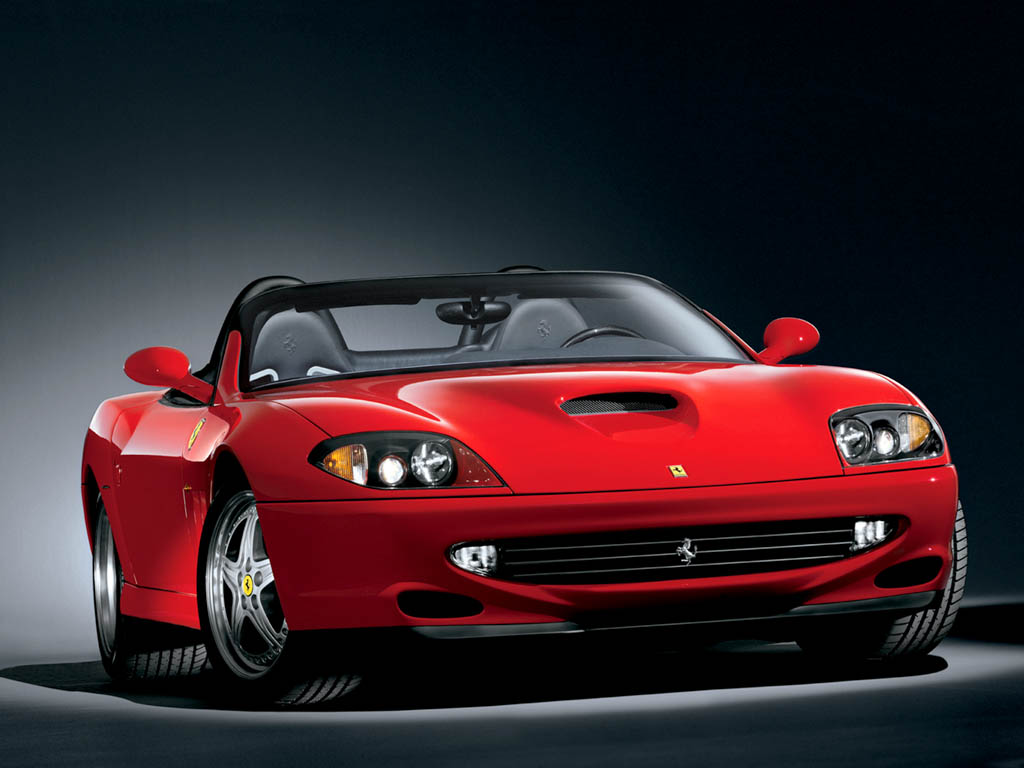
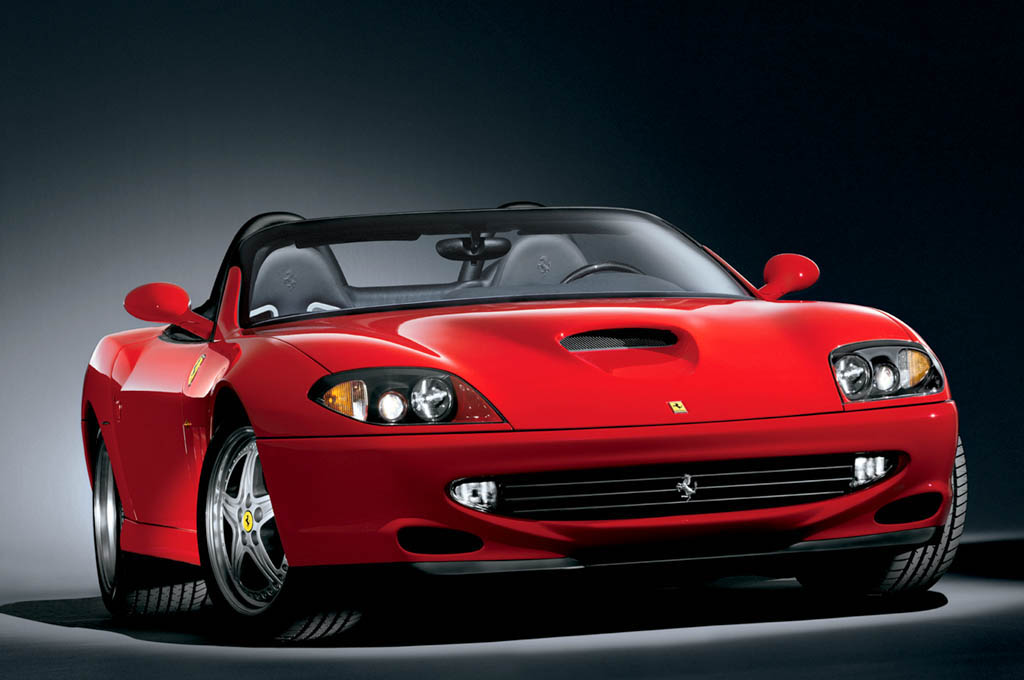
modifica proporzioni immagini

Changed region(s): [[0.0, 0.2471, 1.0, 0.9882]]

diff --git a/mamarchi/html/pages/modello-esposto.html b/mamarchi/html/pages/modello-esposto.html
@@ -34,6 +34,7 @@
         </table>
     </div>
     <div class='col-4 col-xl-2 fotomodello'>
+		<span class="aiutoCentrante"></span>
         <img src='*percorsofoto*' class='immagineprincipale' alt='*altfoto*' />
     </div>
 	</div>

diff --git a/mamarchi/css/style.css b/mamarchi/css/style.css
@@ -139,6 +139,7 @@ body {
 #elencoMostre li p{
     margin-top: 0.3em;
 }
+
 /*FOOTER*/
 #footer {
     padding:2em;
